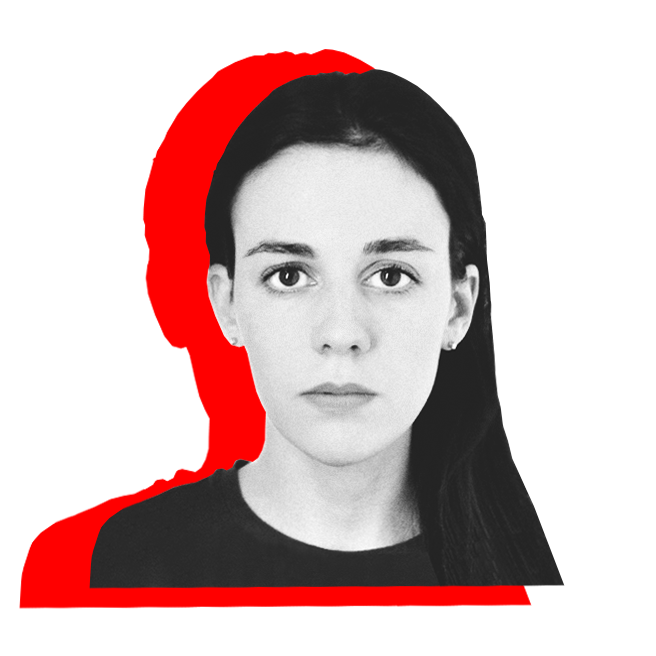
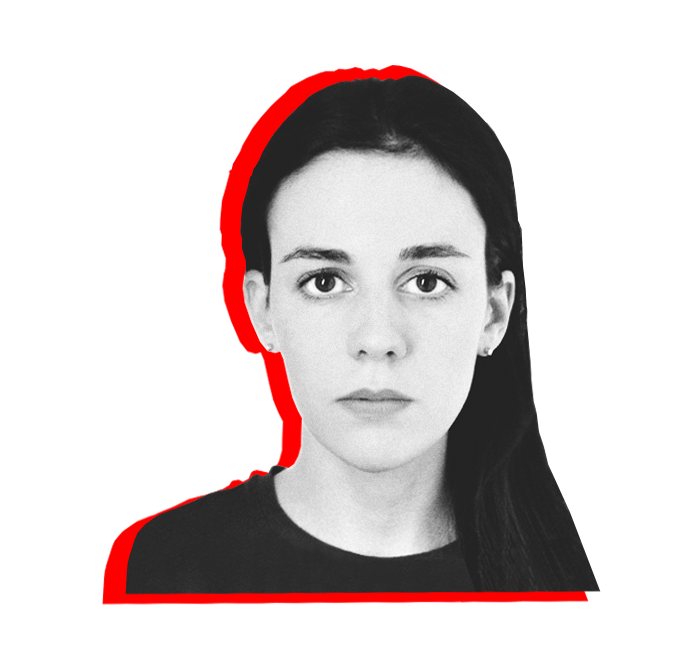
layout about.js

diff --git a/src/styles/_about.scss b/src/styles/_about.scss
@@ -1,212 +1,18 @@
-@media only screen and (max-width: 600px) {
-  .aboutSection {
-    padding: 1rem;
+.flexContainer {
+  margin: auto;
+  padding-top: auto;
+  font-family: $text-font;
+
+  h1 {
+    font-weight: 200;
+    font-size: 3.5rem;
   }
-  .aboutMainTitle {
-    display: none;
+  h4 {
+    font-size: 1.3rem;
+    font-weight: 600;
   }
-  .flexContainer {
-    margin: 1rem 5%;
-    padding: auto;
-    justify-content: center;
-  }
-  .image {
-    width: 50%;
-  }
-  .cv {
-    display: flex;
-    flex-wrap: wrap;
-    align-content: center;
-    font-family: $text-font;
-    width: 100%;
-
-    h1 {
-      font-size: 35pt;
-      font-weight: 200;
-    }
-    h4 {
-      font-weight: 600;
-      font-size: 13pt;
-      // background-color: #fff;
-      // box-shadow: 10px 10px 5px -6px rgba(0, 0, 0, 0.1);
-      // font-family: $headline-font;
-    }
-
-    p {
-      font-size: 10pt;
-      line-height: 14pt;
-      margin-bottom: 1rem;
-    }
-  }
-}
-
-@media only screen and (min-width: 600px) {
-  .aboutSection {
-    padding: 1rem;
-  }
-
-  .flexContainer {
-    margin: 1rem 5%;
-    padding: auto;
-    justify-content: center;
-  }
-  .image {
-    width: 50%;
-  }
-  .cv {
-    display: flex;
-    flex-wrap: wrap;
-    align-content: center;
-    font-family: $text-font;
-    width: 100%;
-
-    h1 {
-      font-size: 35pt;
-      font-weight: 200;
-    }
-    h4 {
-      font-weight: 600;
-      font-size: 13pt;
-      // background-color: #fff;
-      // box-shadow: 10px 10px 5px -6px rgba(0, 0, 0, 0.1);
-      // font-family: $headline-font;
-    }
-
-    p {
-      font-size: 12pt;
-      line-height: 14pt;
-      margin-bottom: 1rem;
-    }
-  }
-}
-
-@media only screen and (min-width: 768px) {
-  .aboutSection {
-    padding: 2rem;
-  }
-  .flexContainer {
-    margin: 2rem 3%;
-  }
-  .image {
-    width: 50%;
-  }
-  .cv {
-    display: flex;
-    flex-wrap: wrap;
-    align-content: center;
-    font-family: $text-font;
-    width: 100%;
-
-    h1 {
-      font-size: 35pt;
-      font-weight: 200;
-    }
-    h4 {
-      font-weight: 600;
-      font-size: 18pt;
-      // background-color: #fff;
-      // box-shadow: 10px 10px 5px -6px rgba(0, 0, 0, 0.1);
-      // font-family: $headline-font;
-    }
-
-    p {
-      font-size: 14pt;
-      line-height: 20pt;
-      margin-bottom: 1rem;
-    }
-  }
-}
-
-@media only screen and (min-width: 992px) {
-  .flexContainer {
-    display: flex;
-    flex-wrap: wrap;
-    margin: 3rem 0;
-  }
-
-  .image {
-    width: 40%;
-  }
-
-  .cv {
-    display: flex;
-    flex-wrap: wrap;
-    align-content: center;
-    font-family: $text-font;
-    width: 60%;
-
-    h1 {
-      font-size: 35pt;
-      font-weight: 200;
-    }
-    h4 {
-      font-weight: 600;
-      font-size: 16pt;
-      // background-color: #fff;
-      // box-shadow: 10px 10px 5px -6px rgba(0, 0, 0, 0.1);
-      // font-family: $headline-font;
-    }
-
-    p {
-      font-size: 14pt;
-      line-height: 23pt;
-      margin-bottom: 1rem;
-    }
-
-    span {
-      color: $hero-color;
-      // background-color: #fff;
-      // box-shadow: 10px 10px 5px -6px rgba(0, 0, 0, 0.1);
-      font-weight: bold;
-      padding: 0 2pt;
-      margin: 0 1pt;
-    }
-  }
-}
-
-@media only screen and (min-width: 1200px) {
-  .flexContainer {
-    display: flex;
-    flex-wrap: wrap;
-    margin: 3rem 0;
-  }
-
-  .image {
-    width: 40%;
-  }
-
-  .cv {
-    display: flex;
-    flex-wrap: wrap;
-    align-content: center;
-    font-family: $text-font;
-    width: 60%;
-
-    h1 {
-      font-size: 45pt;
-      font-weight: 200;
-    }
-    h4 {
-      font-weight: 600;
-      font-size: 18pt;
-      // background-color: #fff;
-      // box-shadow: 10px 10px 5px -6px rgba(0, 0, 0, 0.1);
-      // font-family: $headline-font;
-    }
-
-    p {
-      font-size: 16pt;
-      line-height: 26pt;
-      margin-bottom: 2rem;
-    }
-
-    span {
-      color: $hero-color;
-      // background-color: #fff;
-      // box-shadow: 10px 10px 5px -6px rgba(0, 0, 0, 0.1);
-      font-weight: bold;
-      padding: 0 2pt;
-      margin: 0 1pt;
-    }
+  p {
+    font-size: 1rem;
+    padding-bottom: 0.3rem;
   }
 }

diff --git a/src/components/about.js b/src/components/about.js
@@ -1,7 +1,6 @@
 import React from "react"
 import { useStaticQuery, graphql } from "gatsby"
 import Img from "gatsby-image"
-import { Container, Button } from "reactstrap"
 import { Trans, useTranslation } from "gatsby-plugin-react-i18next"
 
 const About = () => {
@@ -20,18 +19,25 @@ const About = () => {
 
   const aboutImage = data.file.childImageSharp.fluid
   return (
-    <Container id="about" className="aboutSection themed-container" fluid="lg">
-      <div className="flexContainer">
-        <div className="image flexItem">
+    <div id="about" className="aboutSection container-lg">
+      <div
+        className="flexContainer row"
+        style={{
+          position: "relative",
+          top: "50%",
+          transform: "translateY(-50%)",
+        }}
+      >
+        <div className="image col-4 d-none d-sm-block">
           <Img alt="no img" fluid={aboutImage} />
         </div>
-        <div className="cv flexItem">
-          <div>
-            <h1 className="aboutMainTitle">
+        <div className="cv col-lg-6 col-md-6 col-sm-12">
+          <div className="d-none d-sm-block">
+            <h1 className="aboutMainTitle ">
               <Trans>title</Trans>
             </h1>
           </div>
-          <div>
+          <div className="aboutParagraphOne d-none d-sm-block">
             <p>
               <Trans>aboutParagraphOne</Trans>
             </p>
@@ -69,10 +75,9 @@ const About = () => {
               <Trans>aboutParagraphFour</Trans>
             </p>
           </div>
-          <div> </div>
         </div>
       </div>
-    </Container>
+    </div>
   )
 }
 

diff --git a/src/pages/index.js b/src/pages/index.js
@@ -12,7 +12,7 @@ import Shop from "../components/Shop"
 import Contact from "../components/Contact"
 import Footer from "../components/Footer"
 
-const IndexPage = () => {
+const IndexPage = ({ title }) => {
   const options = {
     // you can also just use 'bottom center'
     position: positions.TOP,
@@ -23,7 +23,19 @@ const IndexPage = () => {
   return (
     <Provider template={AlertMUITemplate} {...options}>
       <Layout>
-        <SEO title="Home" keywords={[`gatsby`, `photography`, `ikhmalian`]} />
+        <SEO
+          title=" "
+          keywords={[
+            `фотография`,
+            `Ихмальян`,
+            `Марианна`,
+            `Москва`,
+            `photography`,
+            `Ikhmalian`,
+            `Marianna`,
+            `Moscow`,
+          ]}
+        />
         <Hero />
         <About />
         <Gallery />

diff --git a/src/components/Shop.js b/src/components/Shop.js
@@ -60,10 +60,6 @@ const Shop = () => {
           top: "50%",
           transform: "translateY(-50%)",
         }}
-        data-sal="slide-up"
-        data-sal-duration="400"
-        data-sal-delay="100"
-        data-sal-easing="ease"
       >
         <Carousel
           responsive={responsive}

diff --git a/src/components/seo.js b/src/components/seo.js
@@ -73,7 +73,7 @@ function SEO({ description, lang, meta, title }) {
 }
 
 SEO.defaultProps = {
-  lang: `en`,
+  lang: [`en`, `ru`, `de`],
   meta: [],
   description: ``,
 }
